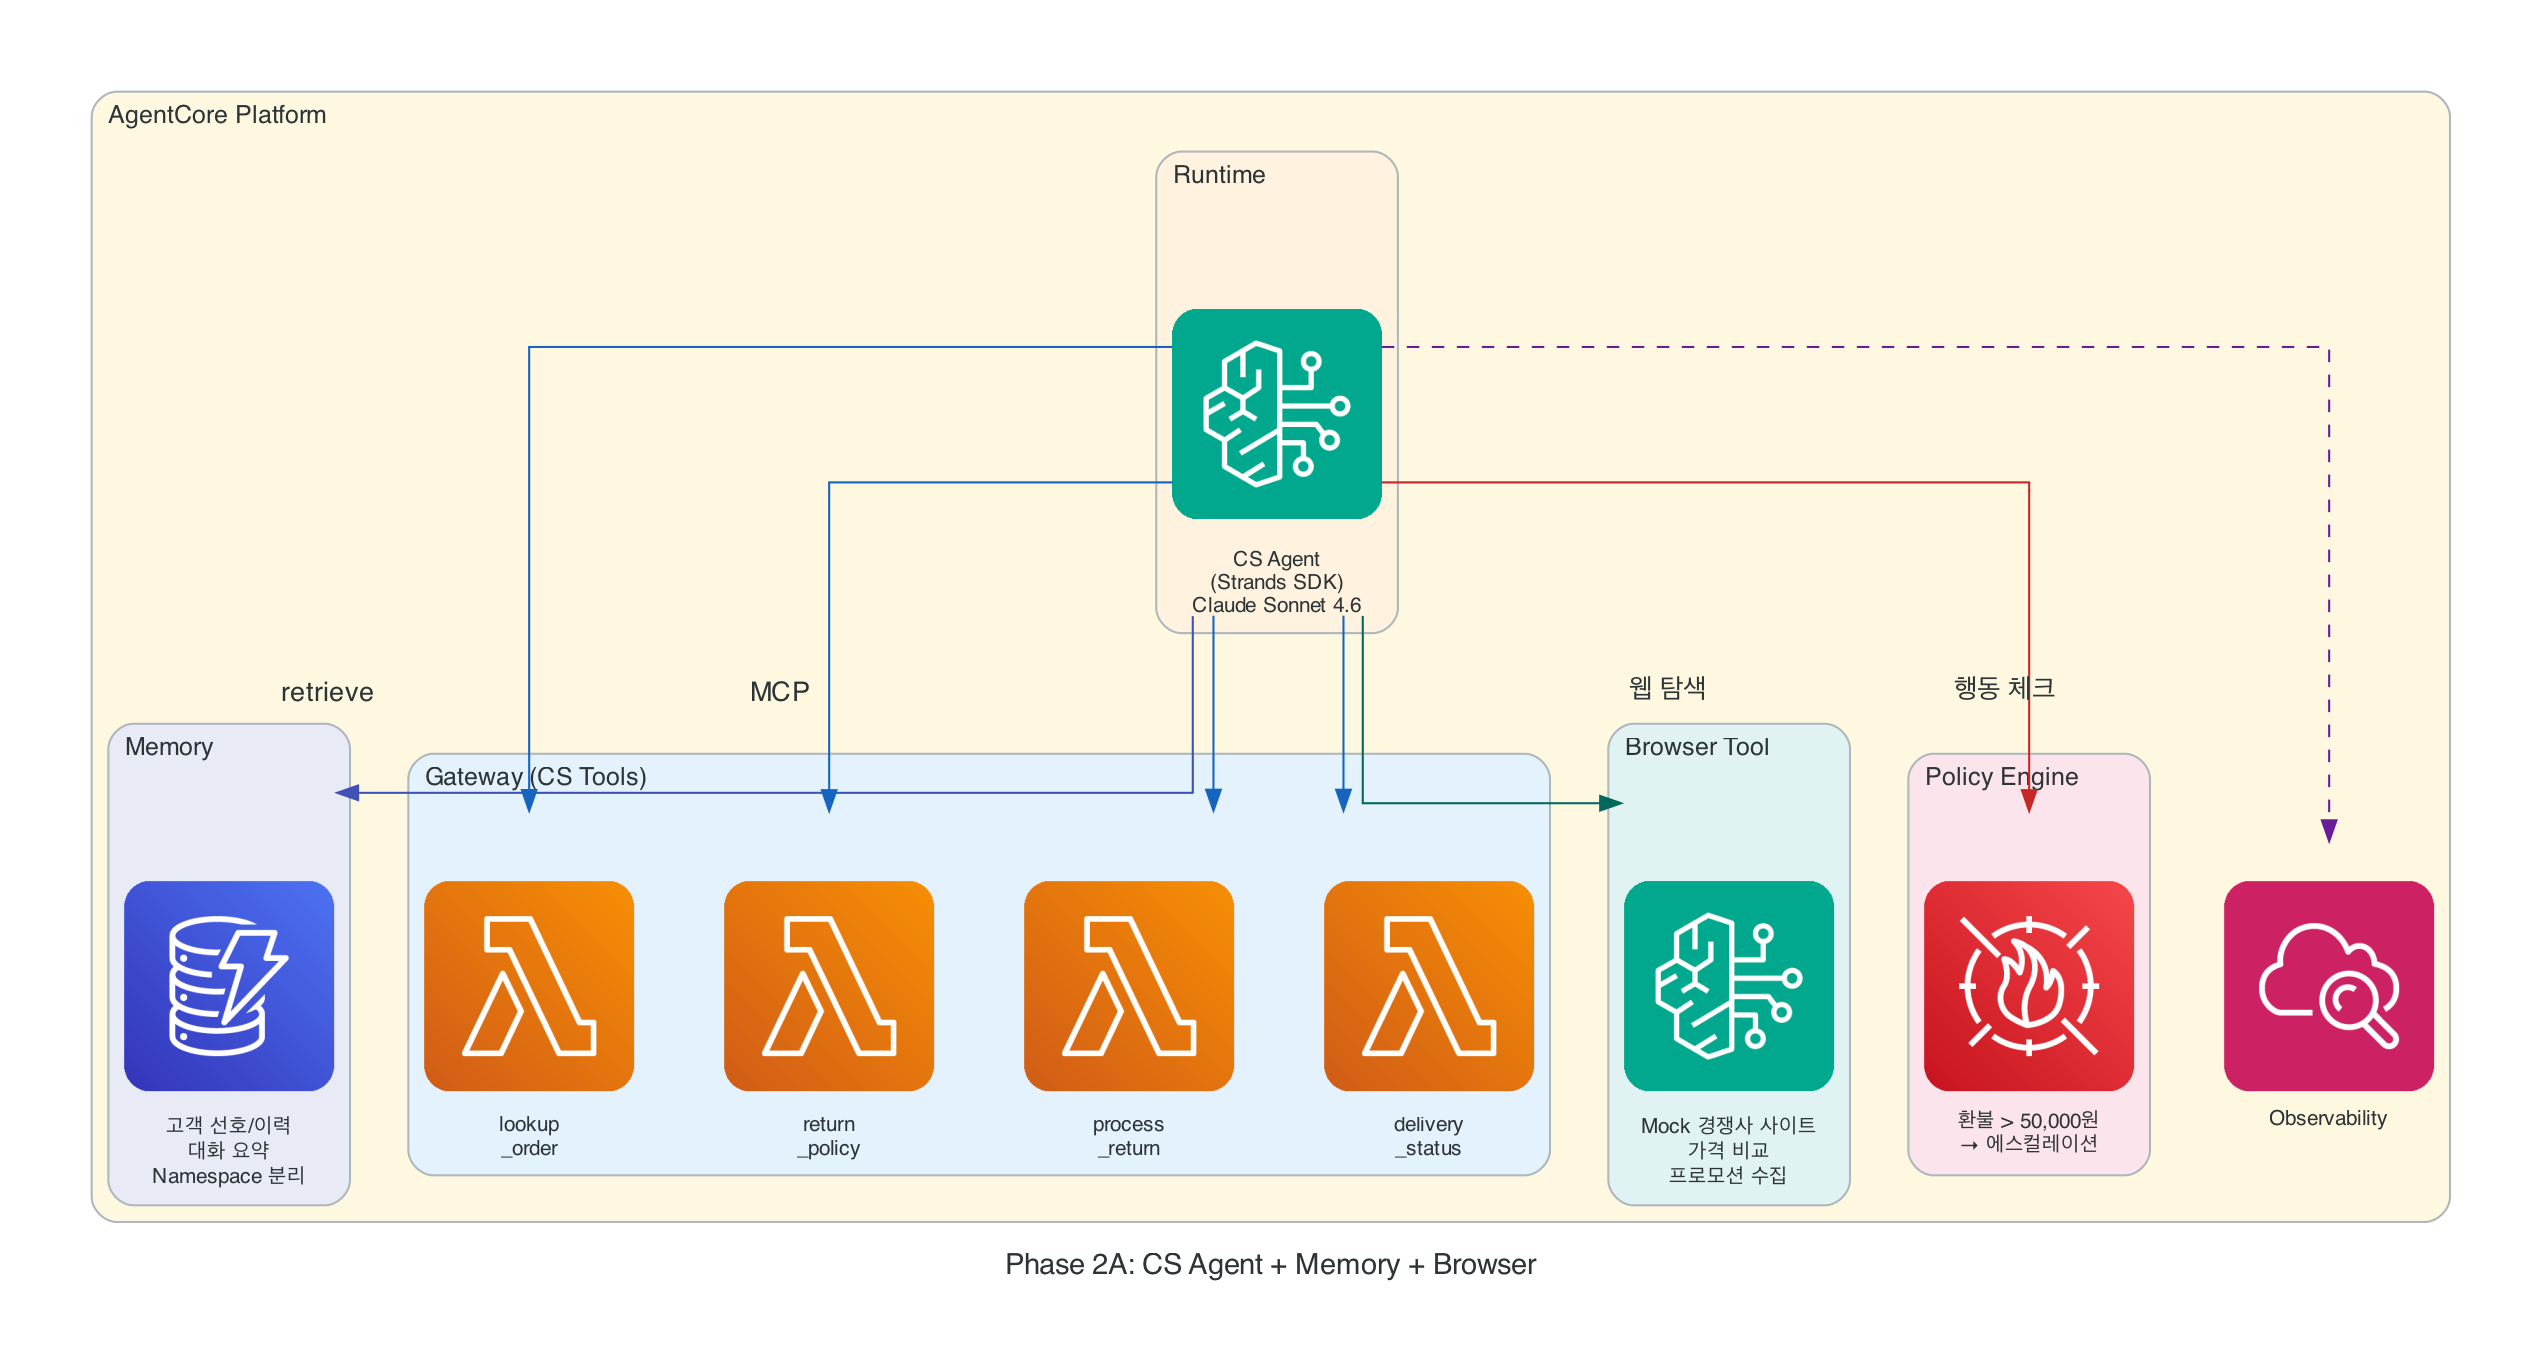
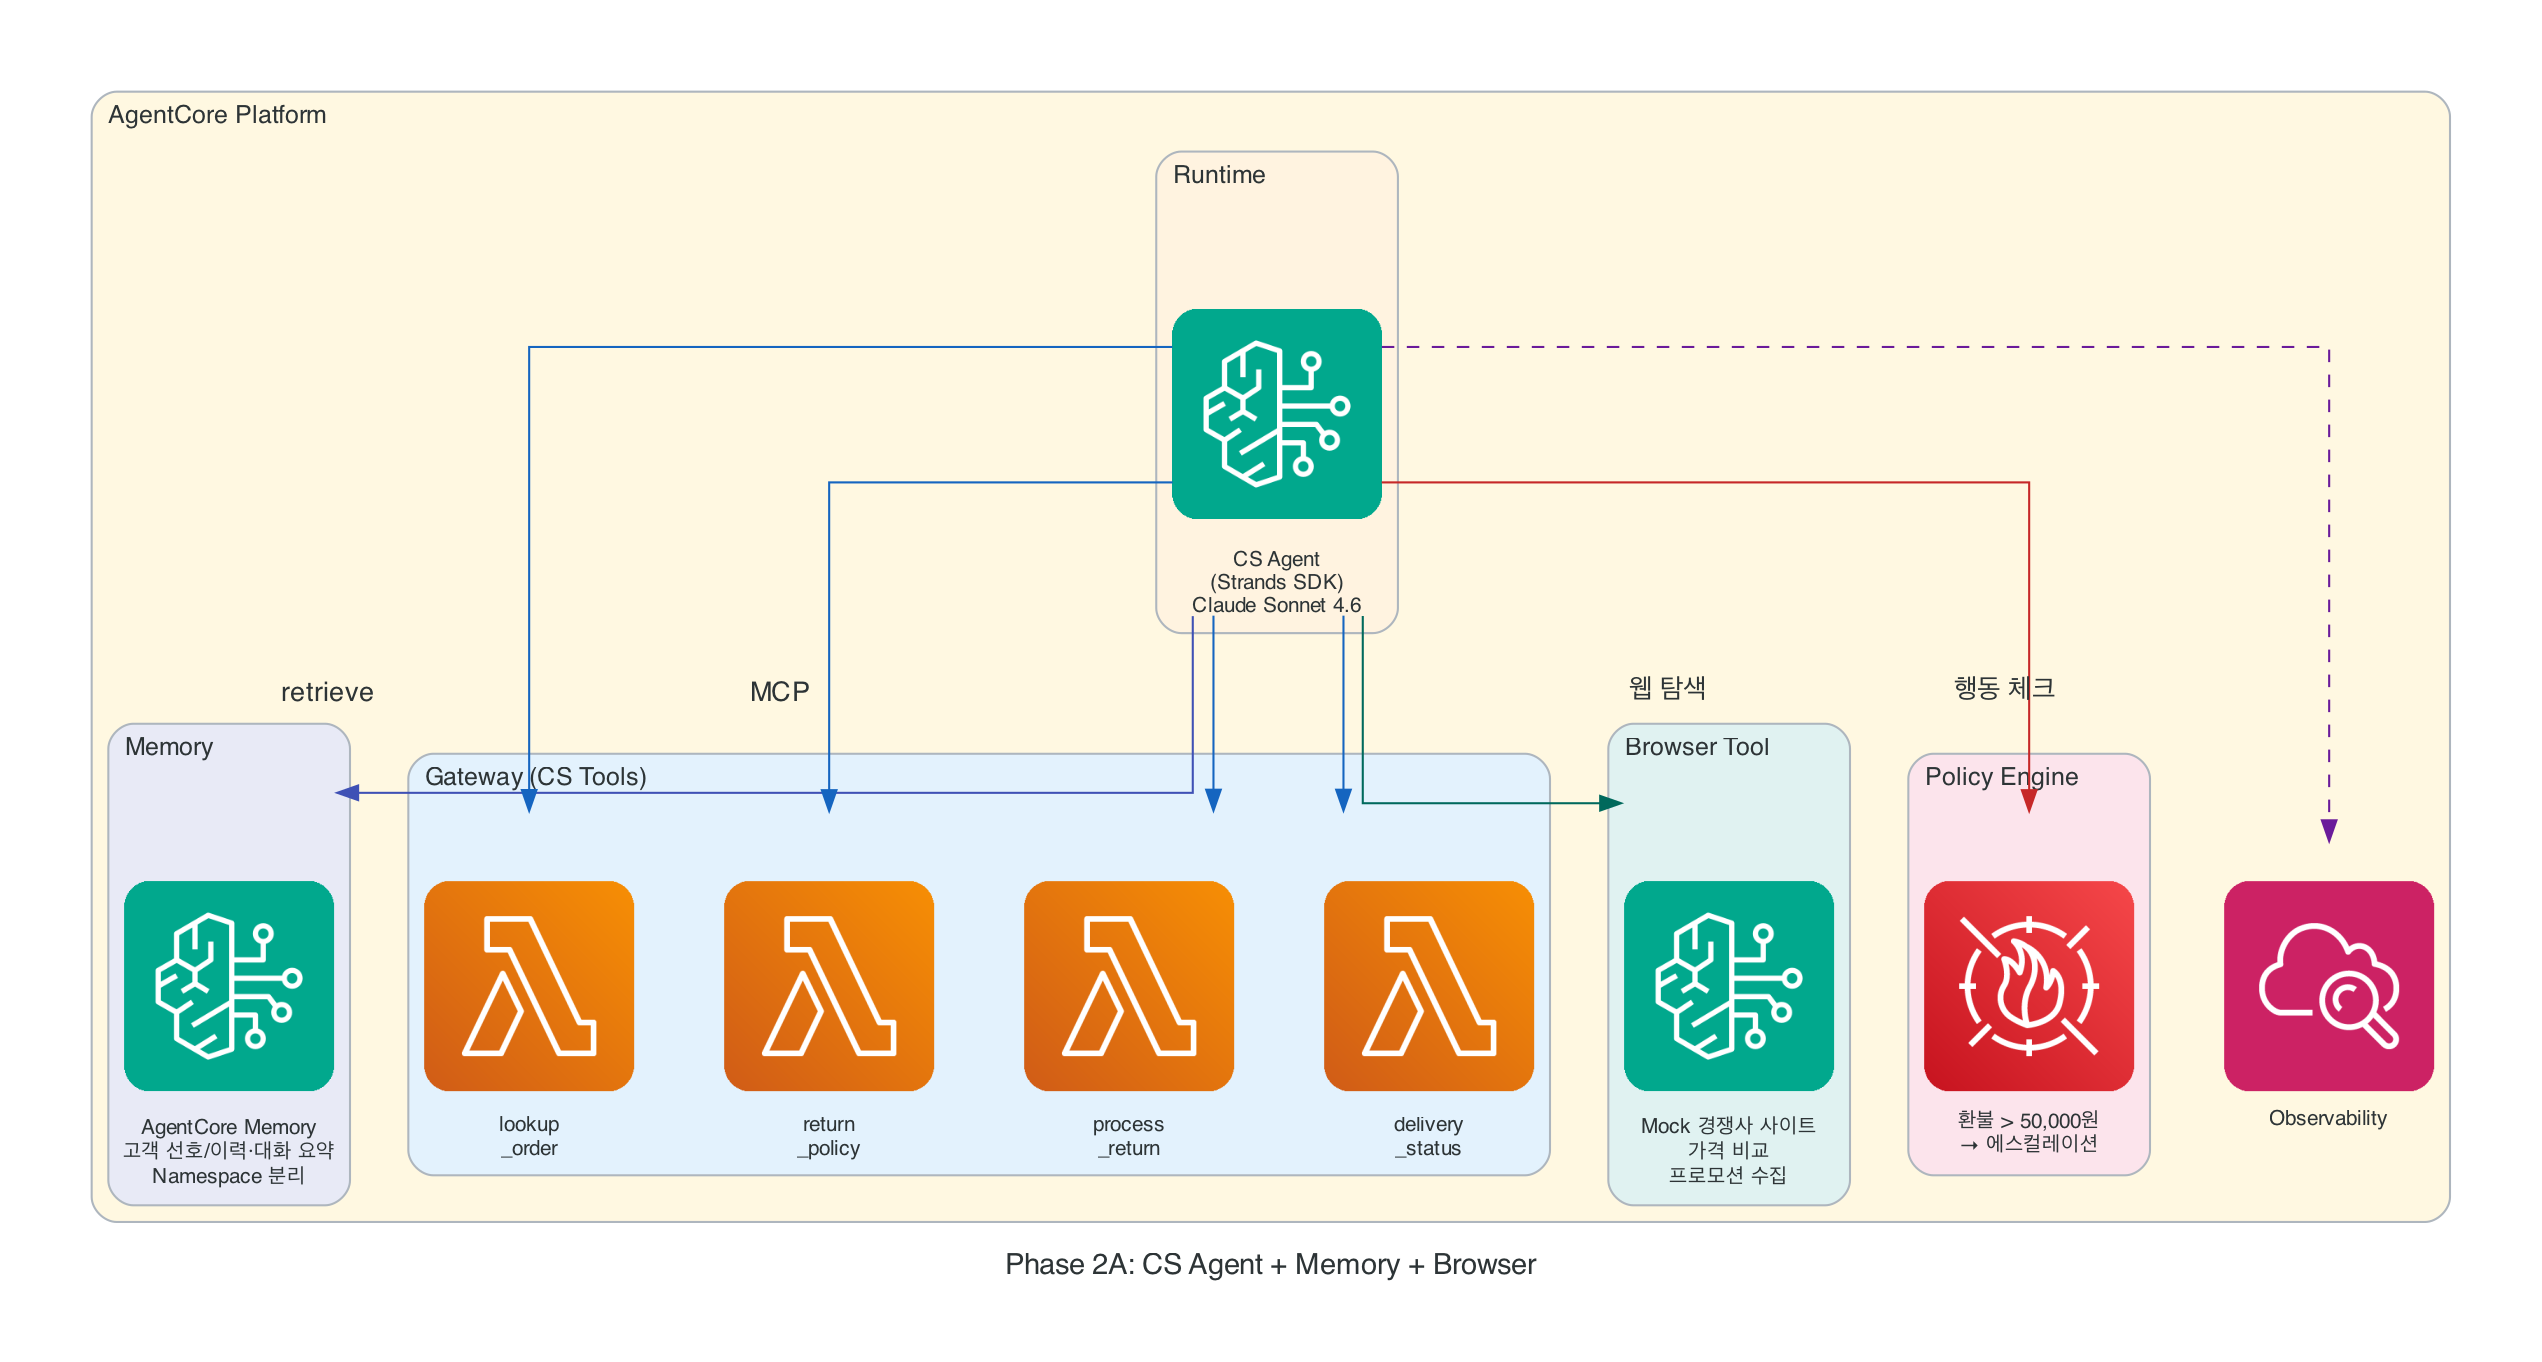
fix: Phase 2A/3 다이어그램 Memory 아이콘을 DynamoDB→AgentCore로 교체
diagrams 라이브러리에 AgentCore Memory 전용 아이콘이 없어 DynamoDB 아이콘을
대용으로 썼는데, 참가자가 'DynamoDB를 설정해야 하나' 오해할 소지가 있었음.
실제 워크샵은 AgentCore Memory API(create_event/retrieve_memory_records)만
사용하고 DynamoDB는 전혀 쓰지 않음. Runtime/Browser와 동일한 Bedrock 아이콘 +
'AgentCore Memory' 라벨로 통일해 오해 제거.

Changed region(s): [[0.0311, 0.6476, 0.1554, 0.8634]]

diff --git a/docs/assets/gen-phase2a-arch.py b/docs/assets/gen-phase2a-arch.py
@@ -5,7 +5,6 @@ from diagrams import Diagram, Cluster, Edge
 from diagrams.aws.ml import Bedrock
 from diagrams.aws.compute import Lambda
 from diagrams.aws.management import Cloudwatch
-from diagrams.aws.database import Dynamodb as DynamoDB
 from diagrams.aws.security import WAF as Shield
 import os
 
@@ -32,7 +31,7 @@ with Diagram(
             agent = Bedrock("CS Agent\n(Strands SDK)\nClaude Sonnet 4.6")
 
         with Cluster("Memory", graph_attr={"bgcolor": "#e8eaf6"}):
-            memory = DynamoDB("고객 선호/이력\n대화 요약\nNamespace 분리")
+            memory = Bedrock("AgentCore Memory\n고객 선호/이력·대화 요약\nNamespace 분리")
 
         with Cluster("Gateway (CS Tools)", graph_attr={"bgcolor": "#e3f2fd"}):
             t1 = Lambda("lookup\n_order")

diff --git a/docs/assets/gen-phase3-arch.py b/docs/assets/gen-phase3-arch.py
@@ -8,7 +8,6 @@ PNG 재생성 필요 시: pip install diagrams && python3 gen-phase3-arch.py
 from diagrams import Diagram, Cluster, Edge
 from diagrams.aws.ml import Bedrock
 from diagrams.aws.compute import Lambda
-from diagrams.aws.database import Dynamodb as DynamoDB
 from diagrams.aws.management import Cloudwatch
 import os
 
@@ -43,7 +42,7 @@ with Diagram(
             browser = Bedrock("Browser\n뉴스/날씨/가격")
 
         with Cluster("Memory (Step 4 연동)", graph_attr={"bgcolor": "#e8eaf6"}):
-            memory = DynamoDB("기억의 주체 = actor_id\n(고객 ID / 매장 ID)")
+            memory = Bedrock("AgentCore Memory\n기억의 주체 = actor_id\n(고객 ID / 매장 ID)")
 
         obs = Cloudwatch("Observability")
 